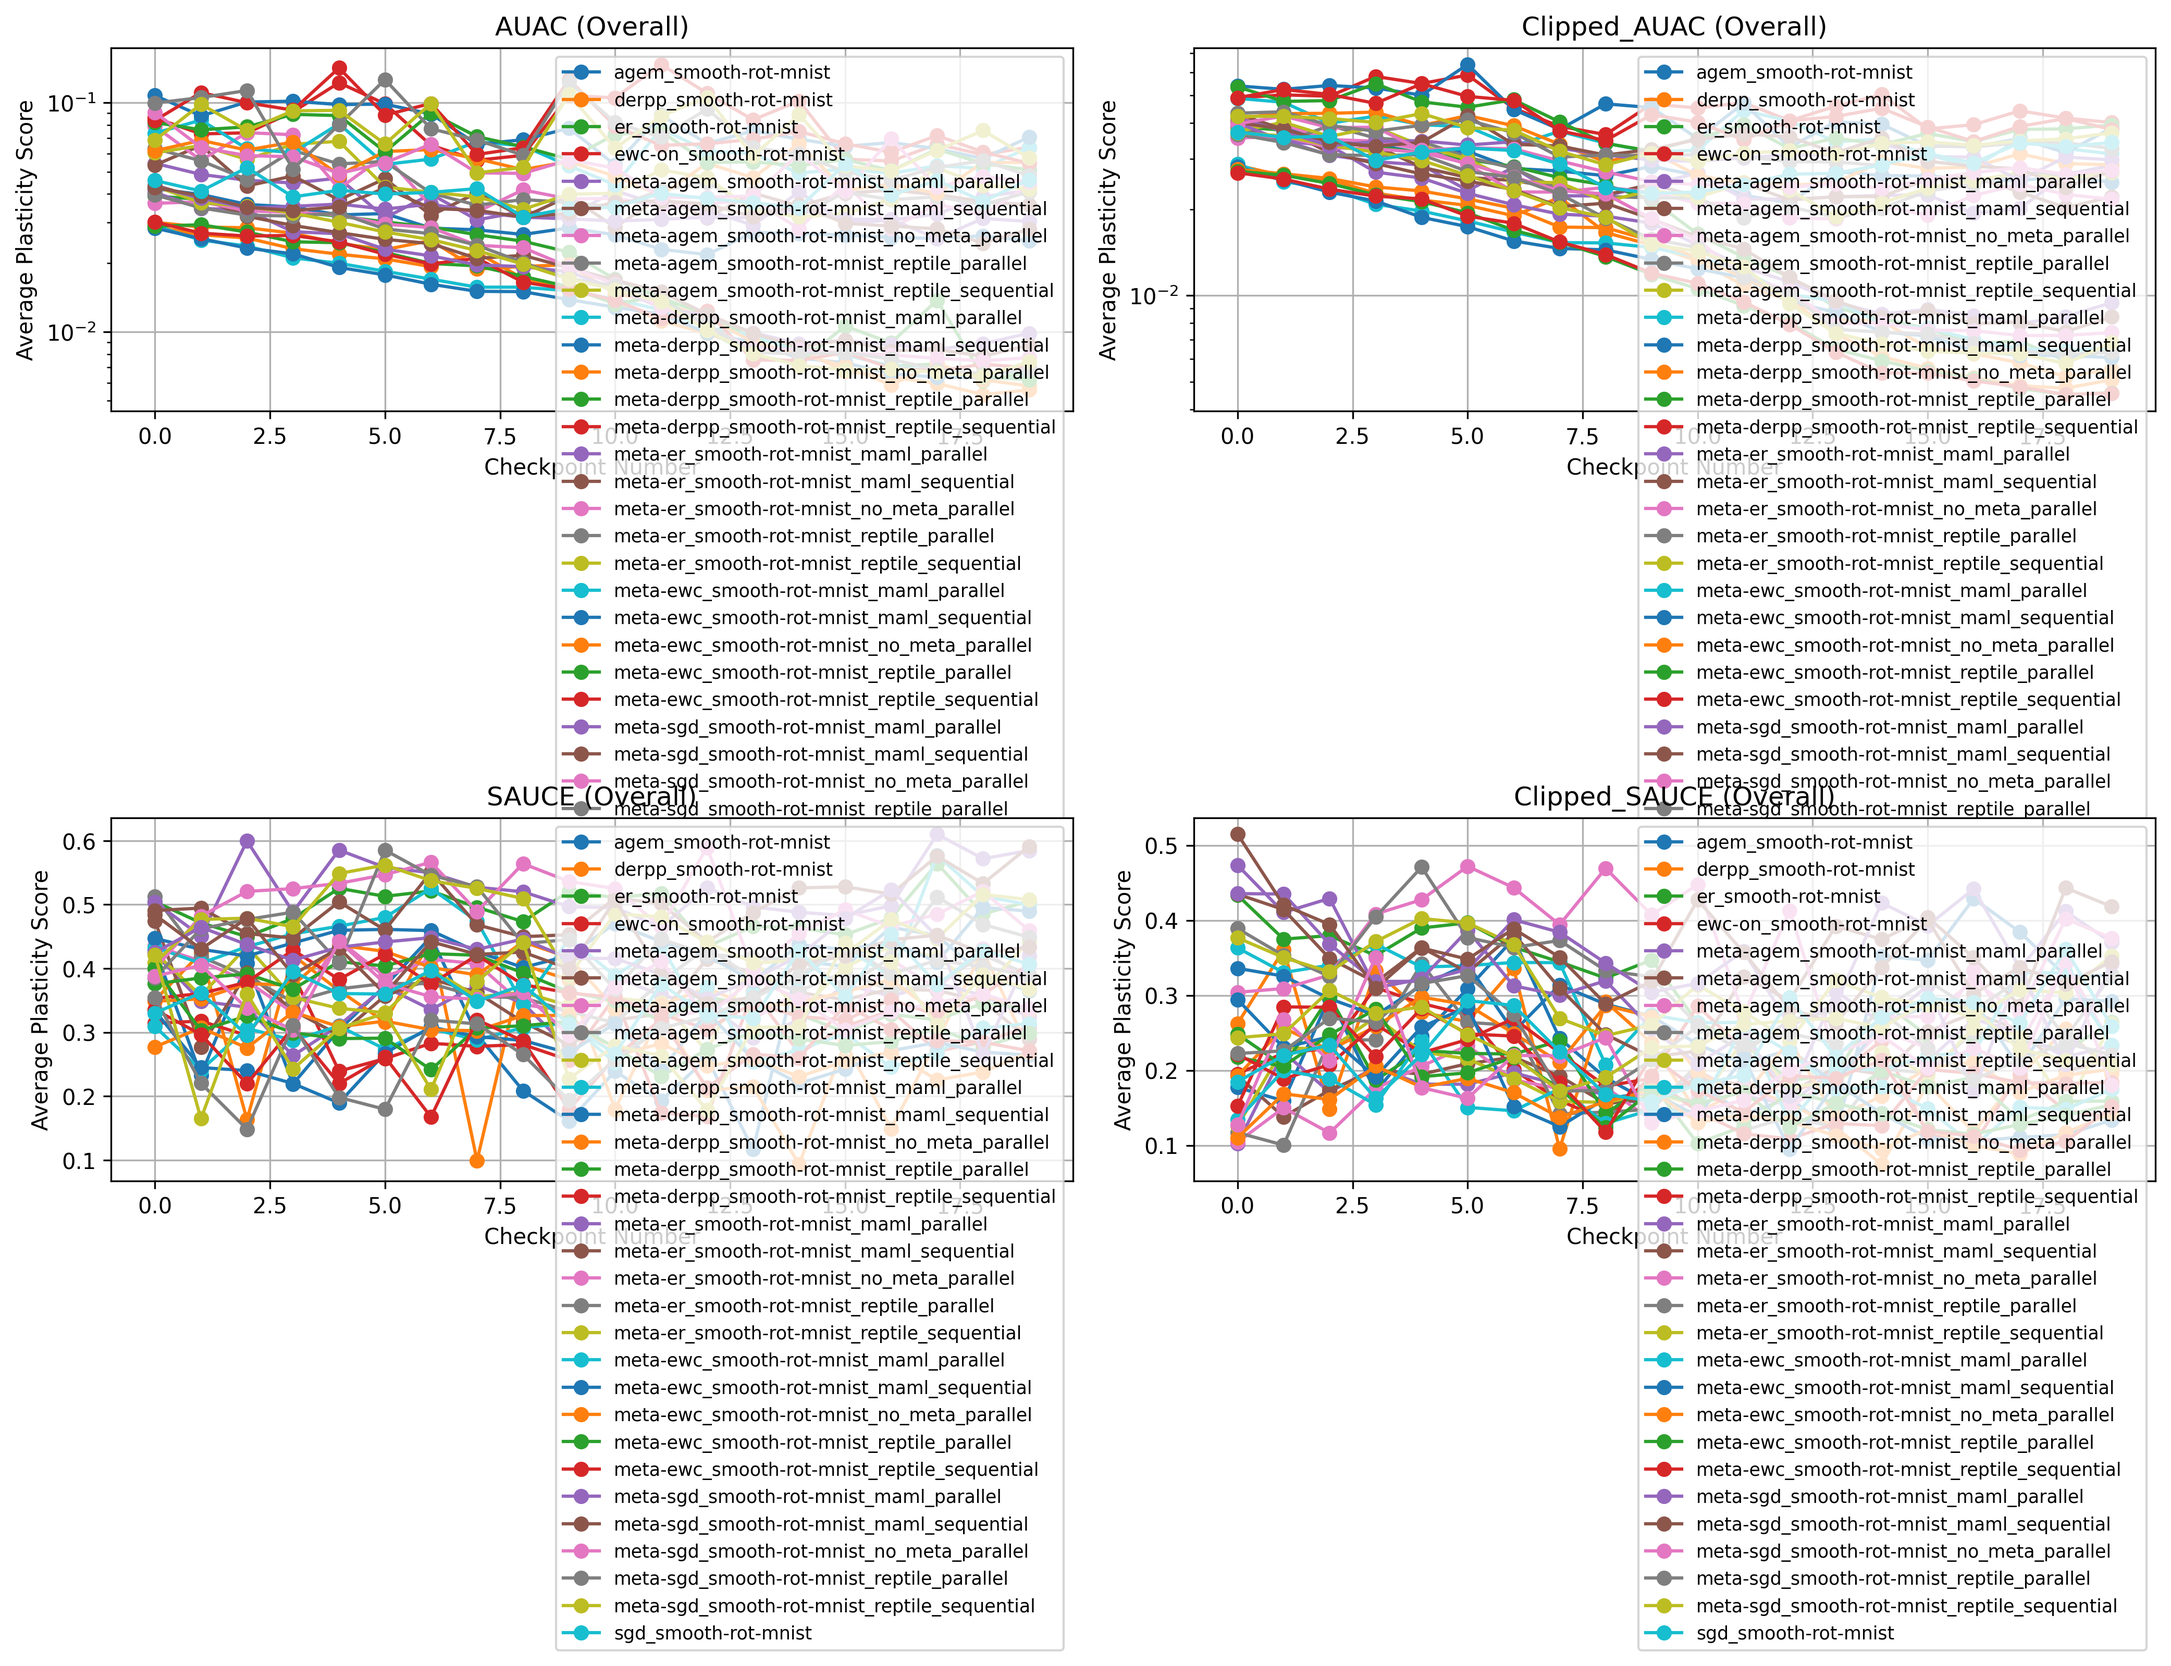
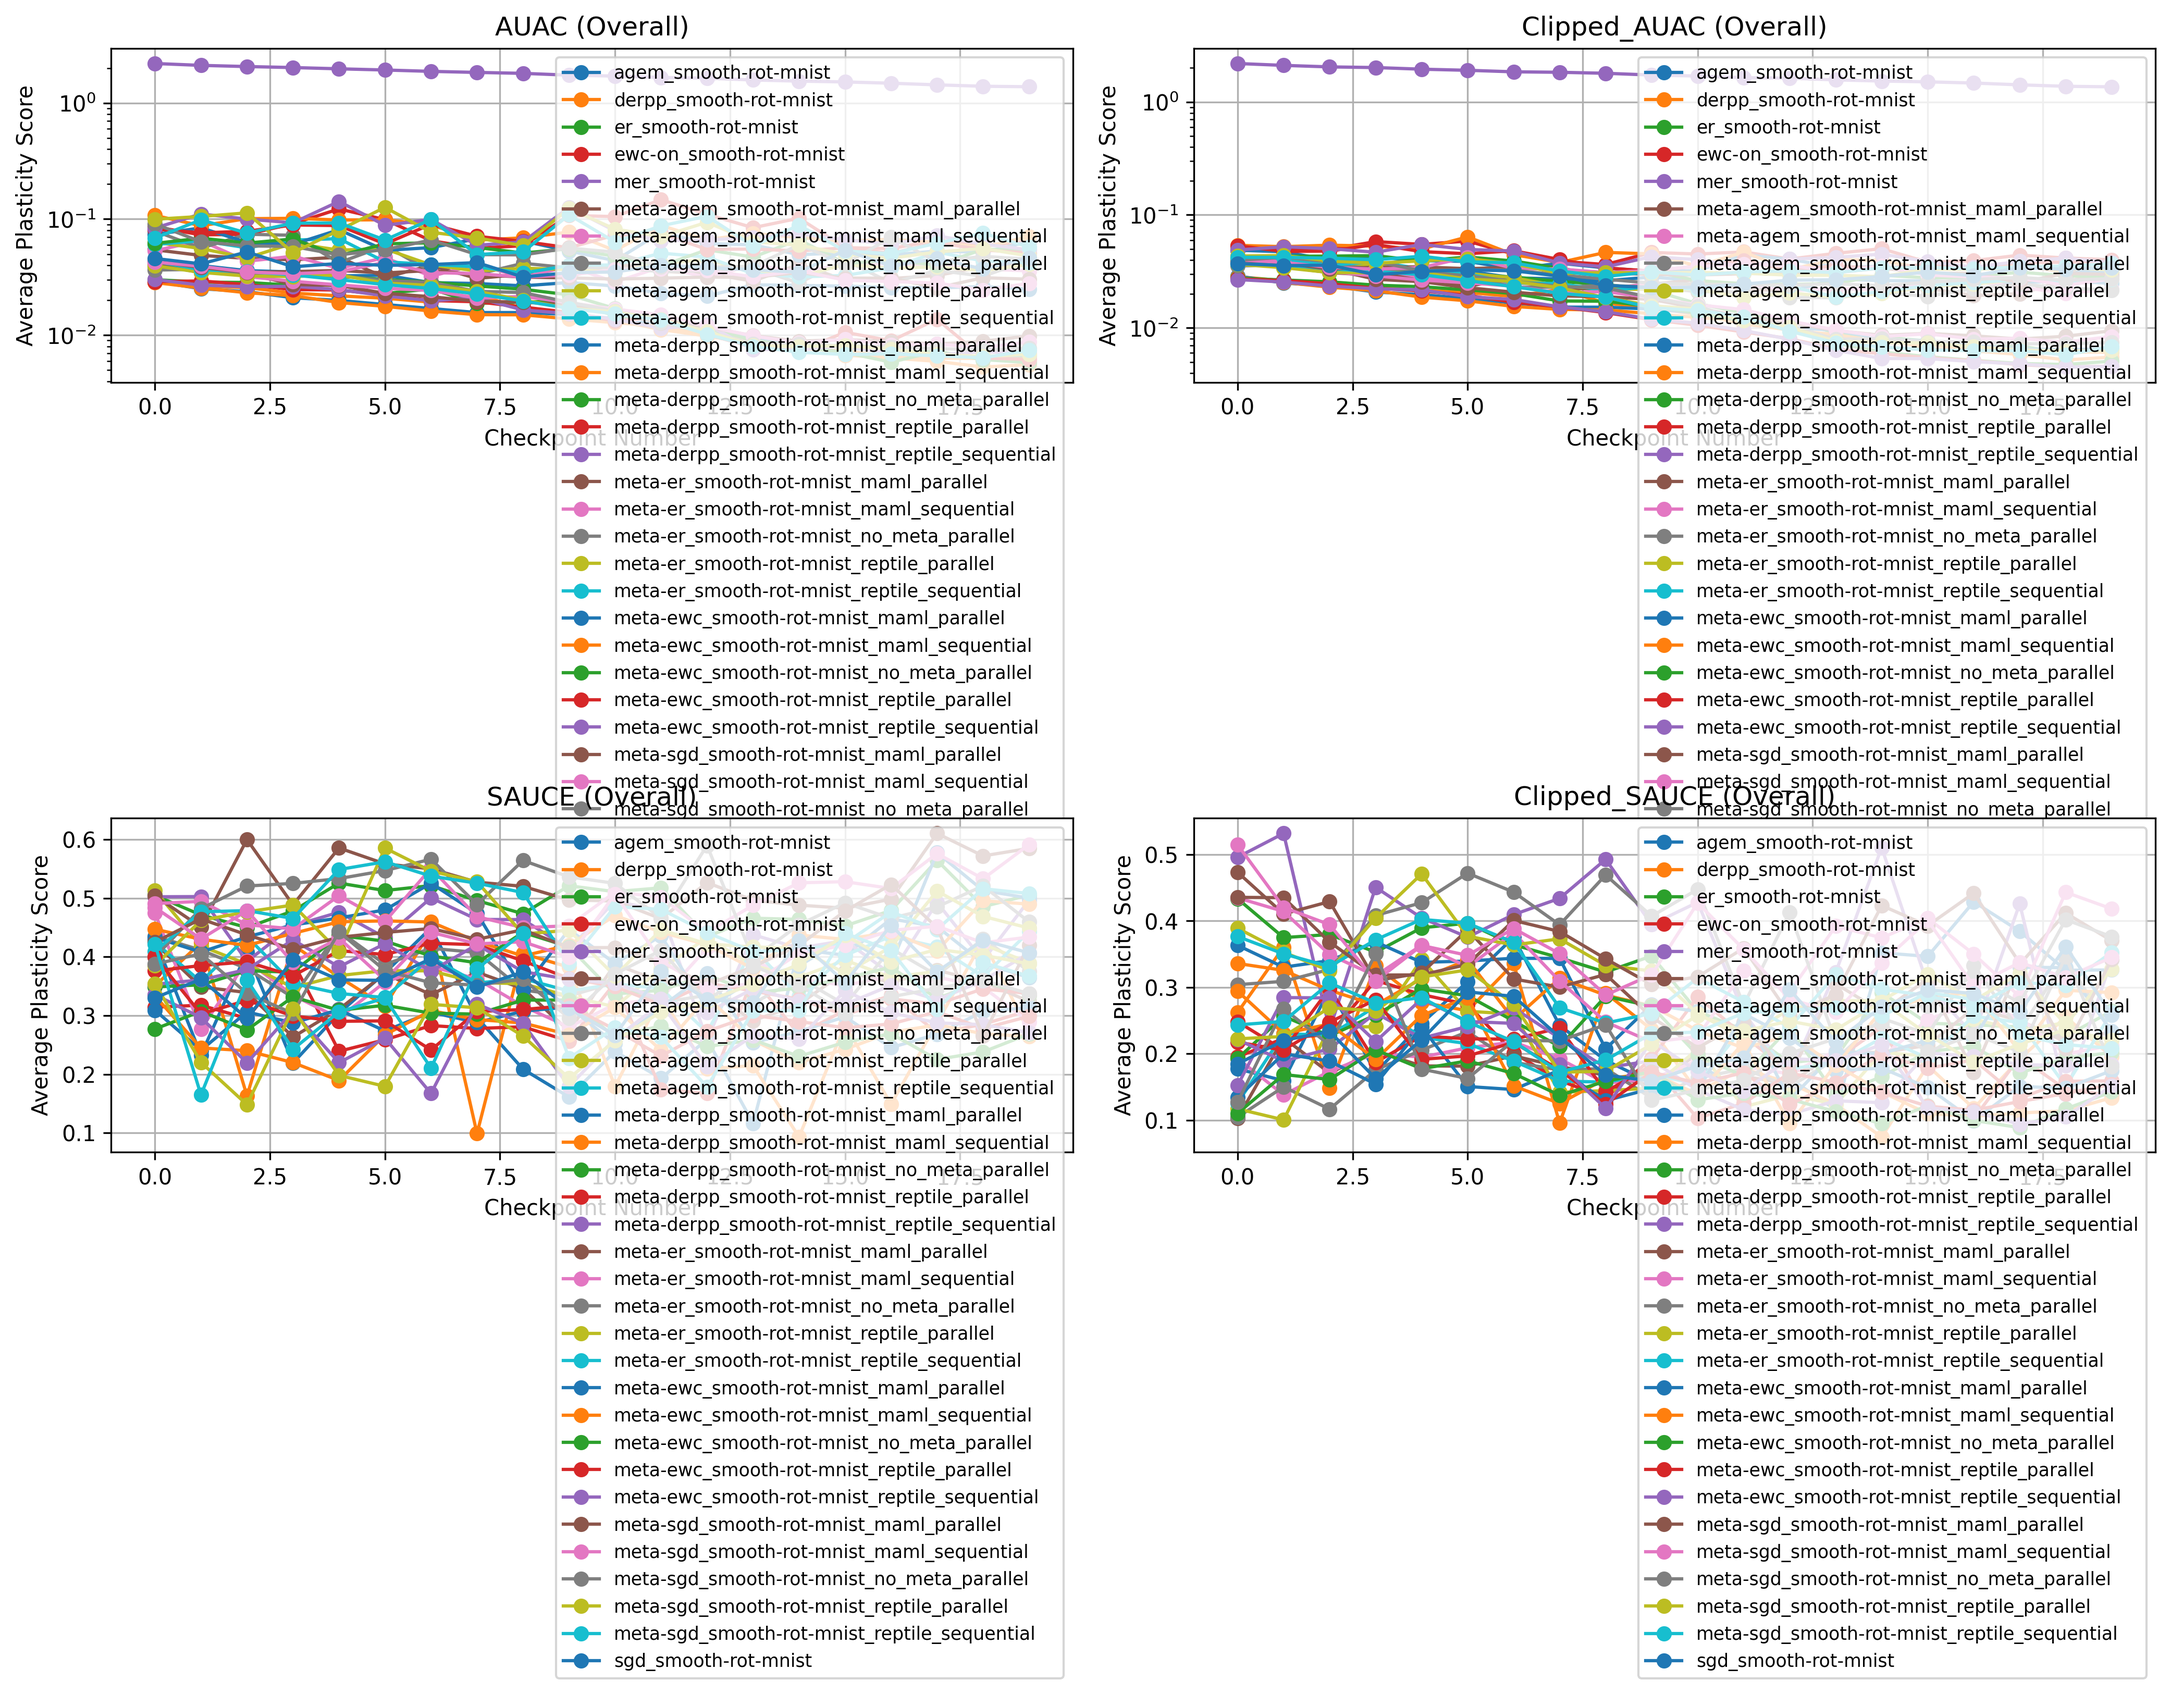
plot aesthetics

Changed region(s): [[0.0, 0.031, 0.9986, 0.9906], [0.0, 0.0619, 0.0312, 0.2167]]

diff --git a/results_for_paper.py b/results_for_paper.py
@@ -23,6 +23,7 @@ METHOD_COLORS = {
     # Non-meta methods
     'sgd': '#1f77b4',       # blue
     'sgd_': '#1f77b4',      # blue variant
+    'er': "#b4871f",        # gold
     'derpp': '#ff7f0e',     # orange
     'ewc_on': '#2ca02c',    # green
     'ewc': '#2ca02c',       # green variant
@@ -35,6 +36,7 @@ METHOD_COLORS = {
     'finetune': '#17becf',  # cyan
     # Meta methods
     'meta_sgd': '#1f77b4',       # blue (same as sgd)
+    'meta_er': "#b4871f",        # gold (same as er)
     'meta_derpp': '#ff7f0e',    # orange (same as derpp)
     'meta_ewc': '#2ca02c',      # green (same as ewc)
     'meta_ewc_on': '#2ca02c',   # green (same as ewc_on)
@@ -48,6 +50,7 @@ METHOD_COLORS = {
 LABEL_MAP = {
     'sgd': 'SGD',
     'derpp': 'DER++',
+    'ewc-on': 'EWC',
     'ewc_on': 'EWC',
     'ewc': 'EWC',
     'agem': 'AGEM',
@@ -246,7 +249,7 @@ def plot_k_shot_stability(
     plot_k_values = [None] if average_over_k_values else k_values
     nrows = 1
     ncols = len(plot_k_values)
-    fig, axes = plt.subplots(nrows, ncols, figsize=(3 * ncols, 3.5), squeeze=False)
+    fig, axes = plt.subplots(nrows, ncols, figsize=(3 * ncols, 3.5) if dataset != 'seq-mnist' else (5 * ncols, 3.5), squeeze=False)
     axes_flat = axes.flatten()
     
     col_titles = ['avg'] if average_over_k_values else [f'k={k}' for k in k_values]
@@ -308,13 +311,19 @@ def plot_k_shot_stability(
                            label=f'{k_val}-shot', color=colors_kshot, alpha=0.9)
         
         # Add legend in top right of each subplot
-        ax.legend(loc='upper right', fontsize=8)
+        if dataset == 'seq-mnist':
+            handles, labels = ax.get_legend_handles_labels()
+            method_labels = sorted([LABEL_MAP.get(get_method_label(m), get_method_label(m)) for m in method_0shot])
+            ax.legend(handles+list(bars_0shot), labels+method_labels, loc='center right', ncols=1,
+                   bbox_to_anchor=(-0.2, 0.5), fontsize='small', labelspacing=1)
         
         # ax.set_xlabel('Method')
-        ax.set_ylabel(metric.capitalize() if col_idx == 0 else '')
-        ax.set_xticks(x_positions)
-        ax.set_xticklabels([get_method_label(m) for m in methods_with_data], 
-                          rotation=45, ha='right', fontsize=8)
+        if dataset == 'seq-mnist':
+            ax.set_ylabel(metric.capitalize() if col_idx == 0 else '')
+        # ax.set_xticks(x_positions)
+        ax.set_xticks([])
+        # ax.set_xticklabels([get_method_label(m) for m in methods_with_data], 
+        #                   rotation=45, ha='right', fontsize=8)
         ax.grid(True, axis='y', alpha=0.3)
         ax.set_title(dataset.upper())
         
@@ -953,8 +962,9 @@ def plot_sauce(
     # Get sorted list of methods
     all_methods = sorted(model_results.keys())
     non_meta = [m for m in all_methods if not m.startswith('meta')]
-    meta = [m for m in all_methods if m.startswith('meta')]
+    meta = [m for m in all_methods if m.startswith('meta') and 'maml' in m and 'parallel' in m]
     sorted_methods = non_meta + meta
+    model_results = {m: model_results[m] for m in sorted_methods}
     
     # Use Dark2 colormap
     cmap = plt.cm.Dark2
@@ -997,9 +1007,9 @@ def plot_sauce(
             # Use bold line for meta methods
             linewidth = 1.5 if method.startswith('meta') else 1.0
             linestyle = '-' if not with_meta or method.startswith('meta') else '--'  
-            alpha = 1.0 if not with_meta or method.startswith('meta') else 0.7         
+            alpha = 1.0 if not with_meta or method.startswith('meta') else 0.6         
             line, = ax.plot(plot_data['checkpoint_num'], plot_data['SAUCE'], 
-                            marker='o',markersize=5, label=get_method_label(method), color=color,
+                            marker='o',markersize=3, label=get_method_label(method), color=color,
                             linewidth=linewidth, linestyle=linestyle, alpha=alpha)
             all_handles.append(line)
             all_labels.append(get_method_label(method))
